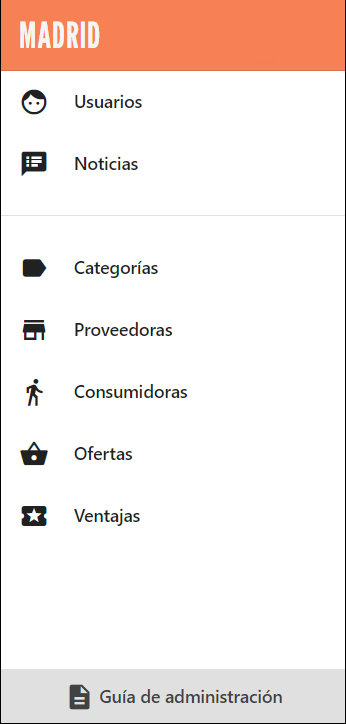
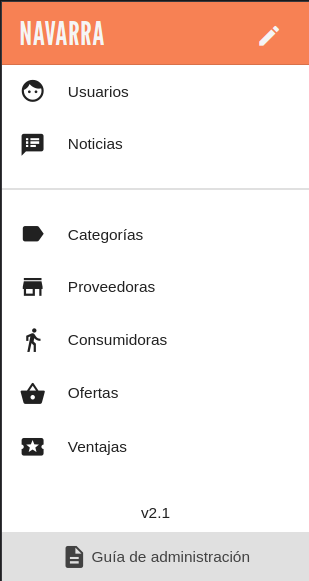
- more admin documentation done

Changed region(s): [[0.0, 0.0, 1.0, 1.0], [0.2039, 0.2169, 0.4078, 0.2788]]

diff --git a/templates/navbar/login.html b/templates/navbar/login.html
@@ -21,7 +21,6 @@
 
             {% if request.user.is_authenticated %}
                 <div class="primary-title">{{request.user.get_username}}</div>
-                <small class="text-muted">{{request.user.email}}</small><br>
                 <hr>
             {% endif %}
                 <div class="mb-2">{% translate "Idioma de la interfaz" %}:<br>

diff --git a/appmes/settings.py b/appmes/settings.py
@@ -186,12 +186,12 @@ DATE_INPUT_FORMATS = ['%d/%m/%Y']
 
 LANGUAGES = (
     ('es', _('Castellano')),
-    ('ca', _('Catalá')),
     ('eu', _('Euskara')),
-    ('gl', _('Galego')),
+    # ('ca', _('Catalá')),
+    # ('gl', _('Galego')),
 )
 MODELTRANSLATION_DEFAULT_LANGUAGE = 'es'
-MODELTRANSLATION_FALLBACK_LANGUAGES = ('es', 'eu', 'ca', 'gl')
+MODELTRANSLATION_FALLBACK_LANGUAGES = ('es', 'eu', )
 
 LOCALE_PATHS = [
     os.path.join(BASE_DIR, 'locale'),

diff --git a/documentation/admin/docs/es/menu_lateral/usuarias.md b/documentation/admin/docs/es/menu_lateral/usuarias.md
@@ -2,23 +2,84 @@
 icon: material/face-man
 ---
 
-# Gestionar usuarias
-Desde esta pantalla podrás gestionar las usuarias relacionadas con el Mercado que gestionas.
+# Usuarios
+Esta pantalla muestra la lista de usuarios del mercado. 
+Estas cuentas de usuario están relacionadas con el **acceso a la aplicación**, los datos más importantes son el **email y
+la contraseña**.
 
-## :fontawesome-solid-plus: Añadir usuaria
-Haciendo click en el botón "Nueva usuaria" accederás a la pantalla para añadir una nueva usuaria. 
+![Listado de usuarios](../assets/listado_usuarios.png){ loading=lazy} 
+
+
+Existen dos tipos o roles:
+
+- Normal: Son los usuarios de las consumidoras y proveedoras
+- Editor: Para administradoras del mercado
+
+/// admonition | Importante
+    type: warning
+No confundir `usuarios` con `socias` (consumidoras o proveedoras). En esta herramienta, las `socias` guardan datos
+relacionados con su vinculación al mercado correspondiente (nombre, NIF, 
+dirección, etc.) y los `usuarios` están relacionados con el acceso a la app (email y contraseña).
+
+Una socia puede tener usuario de la app asociado, pero no es obligatorio.   
+///
+
+En resumen, los `usuarios` gestionan el acceso a la aplicación, ya sea como administradora o como socia, y en este último caso
+los datos de socia del mercado se gestionan en su sección correspondiente 
+([Consumidoras](consumidoras.md) y [Proveedoras](proveedoras.md))
+
+En el listado de usuarios, el icono inicial de cada fila representa lo siguiente:
+
+- :material-clock-outline: Pendiente de registro. Se ha creado el usuario en el panel de admin (más detalles en la siguiente sección), 
+pero todavía no se ha establecido una contraseña mediante el enlace único que le llegó al email.
+- :material-check-all: Registro completado. El usuario ha establecido su contraseña y ya puede acceder a la app.
+
+
+## :fontawesome-solid-plus: Añadir usuario administrador
+Haciendo click en el botón "Nuevo usuario" accederás a la pantalla para añadir una nueva cuenta de **usuario administrador**.
+
+/// admonition | 
+    type: info
+Los usuarios de consumidoras y proveedoras se crean automáticamente a través de las secciones correspondientes del menú
+///
+
 En esta pantalla se te pedirán varios datos referentes a la usuaria:
 
   - Nombre
   - Correo electrónico
-  - Idioma preferido de la interfaz
-  - "Es Staff": Si la nueva usuaria también gestionará este Mercado.
+  - Idioma preferido de la interfaz. Al entrar en su cuenta, por defecto le aparecerá este idioma. En cualquier momento
+las usuarias pueden cambiarlo a través del menú de perfil (arriba a la derecha)
 
-Una vez rellenados los campos obligatorios, pulsa el botón "Crear usuaria" para crear la usuaria.
+Al crear una nueva usuaria, se le enviará un correo electrónico de bienvenida con un enlace único para que establezca 
+su contraseña inicial. 
 
-## :fontawesome-solid-pen: Editar usuaria
-Para editar una usuaria puedes hacer click en la fila correspondiente a la usuaria que se quiera editar, o haciendo click en el icono :material-pencil:.
-En esta pantalla podrás modificar la información de la usuaria y pulsar el botón "Guardar cambios" cuando estés satisfecha. 
 
-## :fontawesome-solid-trash: Eliminar usuaria
-Para eliminar una usuaria, haz click en el icono :material-delete: de la fila que quieras eliminar. Se te abrirá una ventana de confirmación.
+## :fontawesome-solid-pen: Editar usuario
+
+Para editar una usuaria puedes hacer click en la fila correspondiente a la usuaria que se quiera editar, o haciendo 
+click en el icono :material-pencil:.
+
+![Editar usuario registrado](../../assets/editar_usuario_1.png){ loading=lazy} 
+
+/// admonition | 
+    type: tip
+Esta sección es útil cuando alguna persona pide ayuda para recordar su email de registro o resetear su contraseña.
+///
+
+![Editar usuario registrado](../../assets/editar_usuario_preregistro.png){ align=right width=30% loading=lazy} 
+Si un usuario todavía no se ha registrado en la app, le aparece este recuadro que hemos llamado `Preregistro` donde se le
+puede reenviar el email con las instrucciones de registro en la app o copiar el enlace para enviarlo manualmente.
+
+
+## :fontawesome-solid-trash: Eliminar usuario
+Para eliminar un usuario, puedes hacerlo de dos maneras: 
+
+- En el listado de usuarios, pulsando el icono :material-delete: de la fila que quieras eliminar. 
+- En la pantalla de edición de usuario, pulsando el botón `Eliminar usuario`
+ 
+En ambos casos se abrirá una pantalla de confirmación.
+
+![Confirmación eliminar usuario](../../assets/eliminar_usuario_confirmacion.png){ loading=lazy} 
+
+Como indica el mensaje, eliminar un `usuario` vinculado a una `socia`, no elimina los datos de la socia. Si se quiere eliminar 
+completamente una socia consumidora o proveedora, hay que hacerlo desde su sección correspondiente en el menú.

diff --git a/documentation/admin/docs/es/menu_lateral/index.md b/documentation/admin/docs/es/menu_lateral/index.md
@@ -11,26 +11,39 @@ Si estás en un dispositivo móvil, deberás pulsar el icono :material-menu: par
 ///
 
 
-## <span style="color: var(--md-typeset-a-color)">Nombre del Mercado Social</span>
-En la parte superior del menú, se muestra el nombre del Mercado Social que estás administrando, por ejemplo, "Madrid". Este identificador te permite tener siempre claro en qué contexto te encuentras.
-    
-## :material-face-man: [Usuarias](usuarias.md)
-Esta sección facilita la gestión de usuarias, permitiéndote realizar acciones como añadir, editar o eliminar perfiles de usuarias. Aquí puedes administrar los roles y permisos de las personas que participan en la gestión del Mercado Social.
+## Cabecera
+En la parte superior del menú, se muestra el nombre de tu territorio y un icono :fontawesome-solid-pen: para configurar 
+y personalizar algunos elementos de tu Mercado. Más información en la sección [Personalización del Mercado](../personalizacion.md)
+
+## :material-face-man: [Usuarios](usuarias.md)
+Esta sección facilita la gestión de los usuarios que tienen acceso a la aplicación, permitiéndote realizar acciones 
+como añadir administradoras, editar o eliminar perfiles de usuarias. También podrás restablecer una contraseña si 
+alguna usuaria tiene problemas de acceso.
+
+## :material-walk: [Consumidoras](consumidoras.md)
+Aquí se gestiona la información relacionada con las socias consumidoras.
+
+## :material-label: [Categorías](categorias.md)
+Para la organización de las entidades del mercado, esta sección te permite gestionar las categorías asociadas a las proveedoras. 
+Puedes añadir, editar o eliminar categorías, las cuales son fundamentales para indicar el sector al que pertenecen.
+
+## :material-store: [Proveedoras](proveedoras.md)
+En esta sección puedes administrar las entidades proveedoras. Añade, edita o elimina proveedoras para mantener actualizada 
+la lista de participantes.
+
+## :material-basket: [Ofertas](ofertas.md)
+Las ofertas promociones temporales que ofrecen las entidades proveedoras.
+En esta sección podrás ver y gestionar las promociones ofrecidas por las entidades. 
+
+## :material-ticket: [Ventajas](ventajas.md)
+En esta área, puedes gestionar las ventajas exclusivas ofrecidas a las personas socias del Mercado Social, 
+tanto proveedoras como consumidoras. Administra las ventajas asociadas a la membresía para fomentar la participación 
+y vinculación en la red.
 
 ## :material-newspaper: [Noticias](noticias.md)
 En la sección de Noticias, podrás gestionar las novedades y comunicados del Mercado Social. Puedes publicar, editar o eliminar noticias para mantener a las usuarias informadas sobre eventos, actualizaciones y otros acontecimientos relevantes.
 
-## :material-label: [Categorías](categorias.md)
-Para la organización de las entidades del mercado, esta sección te permite gestionar las categorías asociadas a las proveedoras. Puedes añadir, editar o eliminar categorías, las cuales son fundamentales para indicar el tipo de servicios ofrecidos o el sector al que pertenecen.
-
-## :material-store: [Proveedoras](proveedoras.md)
-En esta sección puedes administrar las entidades proveedoras. Añade, edita o elimina proveedoras para mantener actualizada la lista de participantes.
-
-## :material-walk: [Consumidoras](consumidoras.md)
-Aquí se gestiona la información relacionada con las entidades consumidoras. Puedes llevar a cabo acciones como añadir, editar o eliminar perfiles de consumidoras, reflejando así la base de clientes que participan en el mercado.
-
-## :material-basket: [Ofertas](ofertas.md)
-La sección de Ofertas te permite gestionar las promociones ofrecidas por las entidades proveedoras. Las ofertas sirven para informar sobre beneficios y descuentos disponibles que ofrecen las entidades proveedoras.
-
-## :material-ticket: [Ventajas](ventajas.md)
-En esta área, puedes gestionar las ventajas exclusivas ofrecidas a las personas socias del Mercado Social, tanto proveedoras como consumidoras. Administra las ventajas asociadas a la membresía para fomentar la participación y lealtad en la comunidad.
+## :material-information-box-outline: Pie del menú
+En la parte inferior aparece el número de versión de la aplicación web. Esto nos orienta a la hora de reportar posibles
+fallos o ver los cambios que hay en cada nueva versión.
+También hay un botón de acceso a la documentación para administradoras.

diff --git a/documentation/admin/docs/es/perfil.md b/documentation/admin/docs/es/perfil.md
@@ -3,20 +3,30 @@ icon: material/account-circle
 ---
 
 # Perfil
-![Editar perfil](../assets/editar_perfil.png){ align=right width=50% loading=lazy} 
+![Editar perfil](../assets/editar_perfil.png){ align=right width=25% loading=lazy} 
 
-Haciendo click en el botón que tiene el icono :material-account-circle: en la esquina superior derecha accedemos a la siguiente información:
+Haciendo click en el botón que tiene el icono :material-account-circle: en la esquina superior derecha accedemos a la 
+siguiente información:
 
-##:fontawesome-solid-pen: [Editar perfil](#editar-perfil_1)
-##:material-exit-to-app: [Cerrar sesión](#cerrar-sesion_1)
 
-<br>
+## Correo de acceso
 
-# Editar Perfil
-Seleccionando la opción de editar perfil se abrirá una nueva pantalla donde podremos modificar información relacionada con nuestro perfil, como:
+## Idioma de la interfaz
+
+
+## Editar Perfil
+Seleccionando la opción de editar perfil se abrirá una nueva pantalla donde podremos modificar información relacionada 
+con nuestro perfil, como:
+
 - Idioma preferido de la interfaz
 - Actualizar contraseña
 
+![Editar perfil](../assets/mi_perfil.png){ loading=lazy} 
 
-# Cerrar Sesión
-Seleccionando la opción de cerrar sesión, la aplicación finalizará la sesión con la cuenta actual y nos redigirá a la pantalla de inicio de sesión.`
+## Cerrar Sesión
+Seleccionando la opción de cerrar sesión, la aplicación finalizará la sesión con la cuenta actual y nos redigirá a la 
+pantalla principal de presentación de la app.
+
+## Guía de usuario
+De forma similar a esta guía de administración, existe una guía de usuario para socias Consumidoras y Proveedoras.
+Para acceder a ella [pulsa aquí](/docs/user/).

diff --git a/documentation/admin/docs/es/index.md b/documentation/admin/docs/es/index.md
@@ -1,5 +1,9 @@
-
 # Inicio
 
+En esta guía se describen las funciones de administración de la app del Mercado Social.
 
+⬅ Se puede navegar a través de las diferentes secciones a través del menú de la izquierda.
 
+Para encontrar contenidos directamente, utilizar la barra de búsqueda ↗
+
+VISTA GENERAL

diff --git a/documentation/admin/docs/es/versiones.md b/documentation/admin/docs/es/versiones.md
@@ -1,4 +1,3 @@
-
 # Versiones
 
 Para consultar el histórico de versiones y los cambios incluídos en cada version haz click [aquí](https://github.com/Mercado-Social-de-Madrid/appMES/releases).

diff --git a/documentation/admin/docs/es/idiomas.md b/documentation/admin/docs/es/idiomas.md
@@ -1,0 +1,11 @@
+---
+icon: material/translate
+---
+
+# Idiomas
+
+Idioma de interfaz
+
+Idioma de contenidos
+
+Config idiomas de mercado

diff --git a/documentation/admin/docs/es/vista_general.md b/documentation/admin/docs/es/vista_general.md
@@ -1,0 +1,9 @@
+---
+icon: material/image
+---
+
+# Vista general
+
+App web para admins y socias
+
+Apps móviles

diff --git a/documentation/admin/docs/es/personalizacion.md b/documentation/admin/docs/es/personalizacion.md
@@ -1,0 +1,5 @@
+---
+icon: material/store-edit-outline
+---
+
+# Personalización del Mercado
